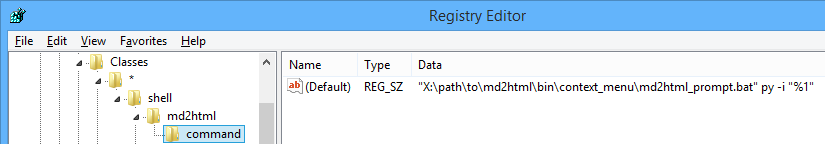
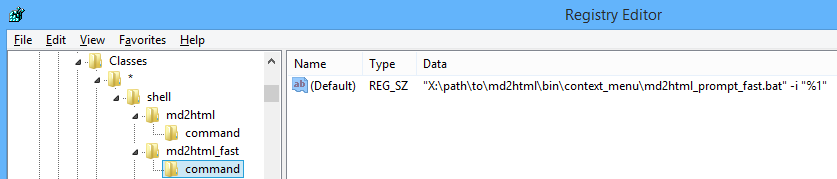
no-prompt context menu item added

Changed region(s): [[0.0, 0.0, 1.0, 1.0], [0.6667, 0.0556, 0.7879, 0.1389]]

diff --git a/readme.html b/readme.html
@@ -25,8 +25,8 @@
             <p><a href="doc/integral_tests.html">Integral tests</a></p>
         </td></tr>
         <tr><td class="bottom" valign="bottom">
-            <i>Generated by md2html_py 0.1.2
-            <br />2021-09-19 21:21:16</i>
+            <i>Generated by md2html_py 0.1.3
+            <br />2021-09-23 16:50:24</i>
         </td></tr>
     </table>
 </div>
@@ -215,9 +215,9 @@ directory. If <code>%MD2HTML_HOME%\bin</code> is added to the <code>PATH</code> 
 <div class="admonition note">
 <p class="admonition-title">Note</p>
 <p>Comments are not allowed in JSON syntax, but in this converter line comments may be added
-with symbol <code>#</code> in the beginning of the line. Also the processing algorithm is permissive,
+with symbol <code>#</code> at the beginning of the line. Also the processing algorithm is permissive,
 so if unknown parameters are added they will be just ignored. This may by used as a way
-of temporarily disabling parameters.</p>
+of temporarily removing parameters.</p>
 </div>
 <p>The command line arguments are taken into account even if an <em>argument file</em> is used. Even more,
 command line parameters will always override the corresponding parameters in the <em>argument file</em>.</p>
@@ -244,18 +244,27 @@ directory where it will process the project's list file.</p>
 <p><code>bin/win_context_menu</code> directory contains artifacts for integration into Windows Explorer
 context menu:</p>
 <p><img alt="WINDOWS_EXPOLORER_CONTEXT_MENU" src="doc/pict/windows_context_menu.png" /></p>
-<p>It opens a command line prompt window and allows to redefine some options. Just pressing
-<code>Enter</code> will fulfill generation with default options.</p>
-<p>To add this context menu item, open the Windows Registry editor (press <code>Win</code>+<code>R</code>, type <code>regedit</code>
+<p>The "no prompt" version generates HTML on the selected file with default options. It leaves
+the command window open in case of errors. The second version opens a command line window and
+allows to redefine some options. Just pressing <code>Enter</code> will fulfill generation with the default
+options.</p>
+<p>To add these context menu items, open the Windows Registry editor (press <code>Win</code>+<code>R</code>, type <code>regedit</code>
 and press <code>Enter</code>) and add the following keys and values:</p>
 <pre class="highlight"><code>[HKEY_CURRENT_USER\Software\Classes\*\shell\md2html]
-@="Markdown to HTML"
-"icon"="X:\\path\\to\\md2html\\win_context_menu\\icon.ico"
+@="Markdown to HTML..."
+"icon"="\"X:\\path\\to\\md2html\\bin\\context_menu\\icon.ico"
 
 [HKEY_CURRENT_USER\Software\Classes\*\shell\md2html\command]
-@="\"X:\\path\\to\\md2html\\bin\\context_menu\\md2html_prompt.bat\" -i \"%1\""</code></pre>
-<p><strong>Note.</strong>  1. <code>@</code> stands for <code>(Default)</code> value name. 2. <code>py</code> or <code>java</code> may be added before <code>-i</code>.
-3. The quotes must be set like this:</p>
+@="\"\"X:\\path\\to\\md2html\\bin\\context_menu\\md2html_prompt.bat\" -i \"%1\""
+
+[HKEY_CURRENT_USER\Software\Classes\*\shell\md2html_fast]
+@="Markdown to HTML (no prompt)"
+"icon"="\"X:\\path\\to\\md2html\\bin\\context_menu\\icon.ico"
+
+[HKEY_CURRENT_USER\Software\Classes\*\shell\md2html_fast\command]
+@="\"X:\\path\\to\\md2html\\bin\\context_menu\\md2html_prompt_fast.bat\" -i \"%1\""</code></pre>
+<p>Here <code>@</code> stands for <code>(Default)</code> value name. <code>py</code> or <code>java</code> may be added before <code>-i</code> argument.
+The quotes must be set like this:</p>
 <p><img alt="" src="doc/pict/reg_value.png" /></p>
 <h2 id="typical-project-structure">Typical project structure</h2>
 <p>The following structure may be suggested for a documented project:</p>
